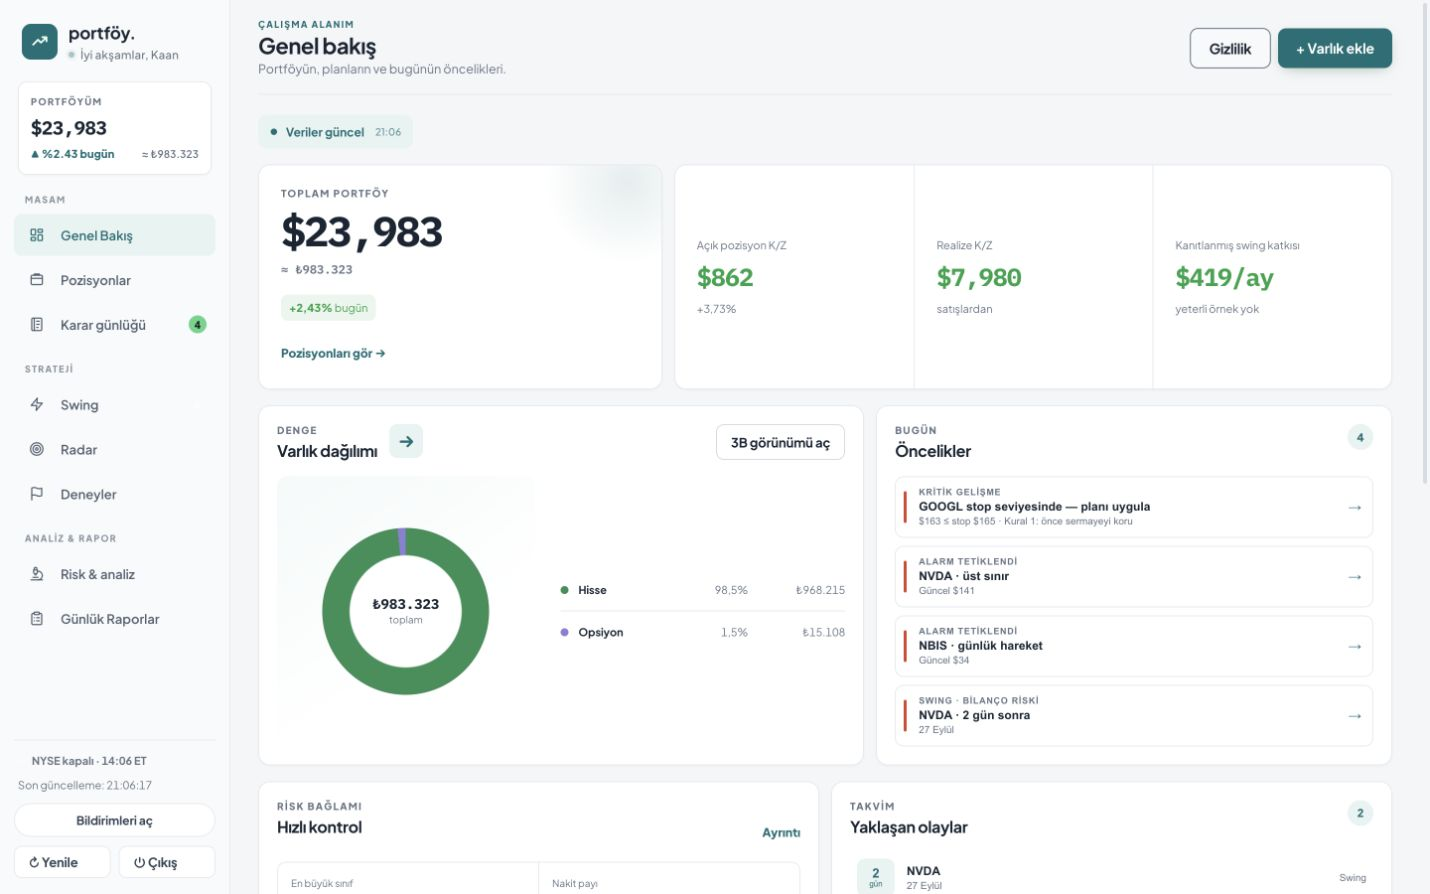
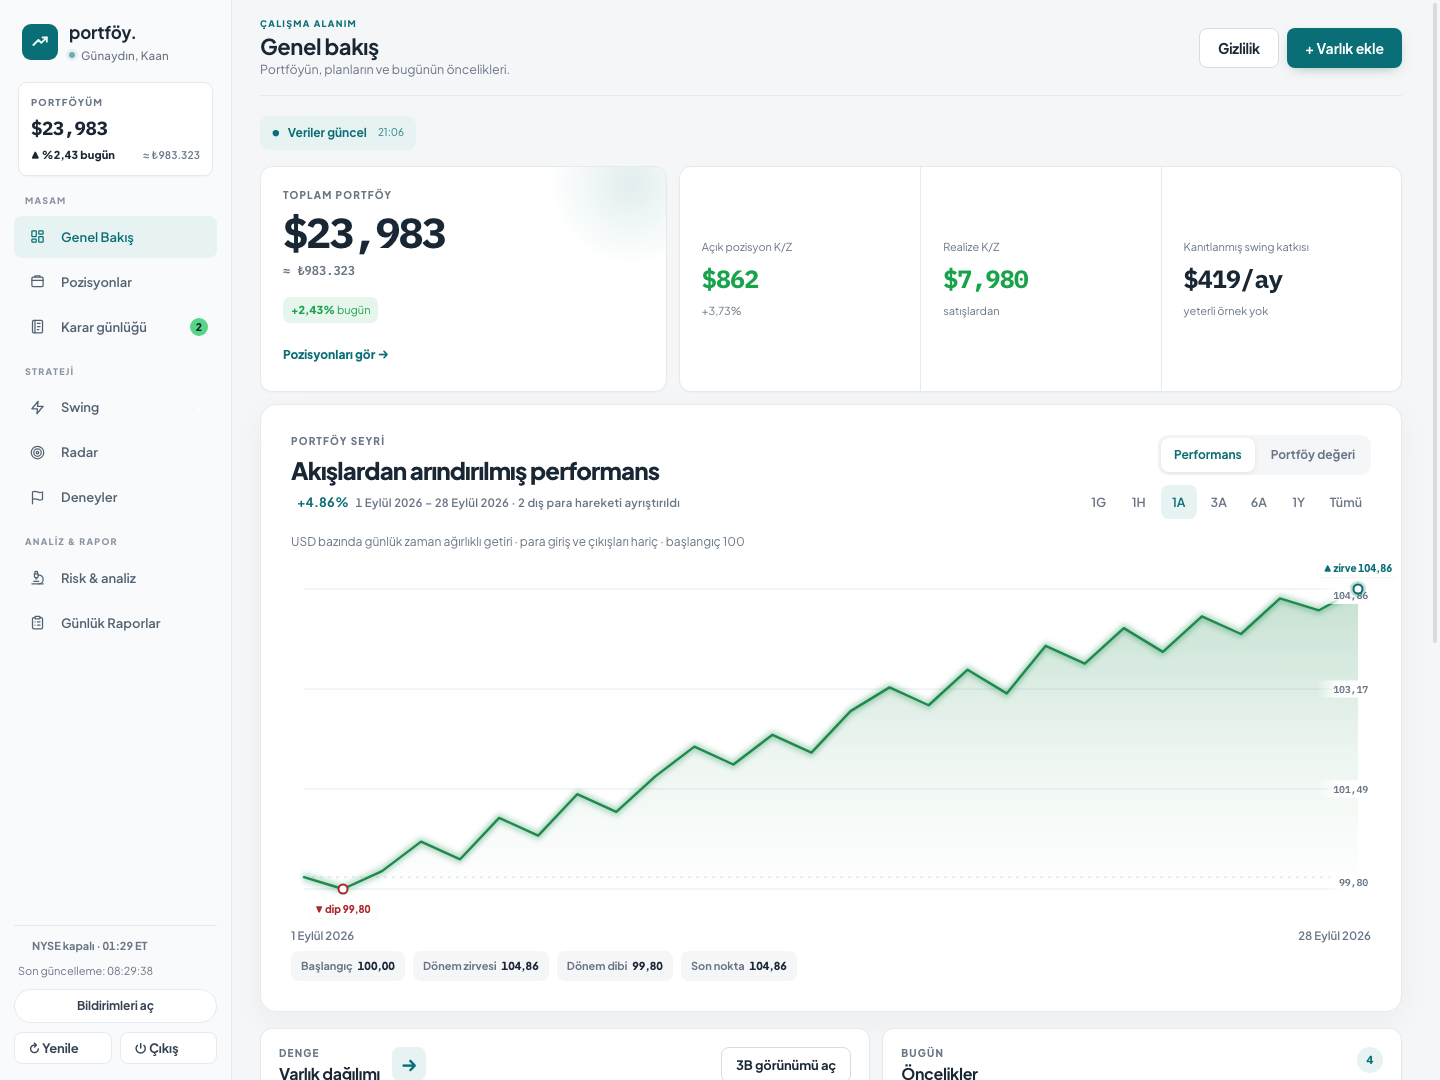
feat: show cash-flow-adjusted chart below portfolio total

diff --git a/public/js/01-cekirdek.js b/public/js/01-cekirdek.js
@@ -130,7 +130,8 @@ function bindAlloc() {
 }
 
 let STATE = null;
-let RANGE = "1d";
+let RANGE = "1m";
+let CHART_MODE = "performance";
 let ALLOC = { segs: [], total: 0, usdtry: 0, grandTotalTRY: 0 }; // varlık dağılımı (donut hover)
 
 /* ===== POZİSYON BOYUTLANDIRMA — tek formül, tek yer =============================
@@ -1257,31 +1258,61 @@ function iconizeHeaders(root) {
 
 function drawChart() {
   const box = $("#chartBox");
-  const { pts, intraday } = buildSeries();
+  box.classList.remove("is-empty");
+  const sub = $("#chartSub");
+  const context = $("#chartContext");
+  const insights = $("#chartInsights");
+  const isPerformance = CHART_MODE === "performance";
+  $("#chartTitle").textContent = isPerformance ? "Akışlardan arındırılmış performans" : "Portföy değeri";
+  const rangeKey = { "1d": "day", "1w": "week", "1m": "month", "3m": "quarter", "6m": "half", "1y": "year", all: "since" }[RANGE];
+  const period = isPerformance ? STATE.performance?.[rangeKey] : null;
+  if (isPerformance && (!period?.ok || period.verified === false || !Array.isArray(period.series) || period.series.length < 2)) {
+    const unresolved = period?.unexplainedCount || 0;
+    sub.textContent = "Doğrulanmış getiri bekleniyor";
+    context.textContent = unresolved
+      ? `${unresolved} günün nakit farkı açıklanmıyor. Bu aralıkta getiri çizgisi gösterilmiyor.`
+      : "Bu aralık için yeterli doğrulanmış değerleme yok. Daha kısa bir dönem seçebilirsin.";
+    context.classList.toggle("is-warning", !!unresolved);
+    insights.innerHTML = "";
+    box.classList.add("is-empty");
+    box.innerHTML = `<div class="chart-empty">${unresolved ? "Önce geçmiş nakit hareketlerini doğrula; bu dönem için güvenilir performans hesaplanamıyor." : "Bu dönemde çizilecek yeterli performans noktası henüz yok."}</div>`;
+    return;
+  }
+  const raw = isPerformance ? null : buildSeries();
+  const pts = isPerformance ? period.series.map((p, i) => ({
+    label: RANGE === "1d" ? (i === 0 ? "Açılış" : "Şimdi") : fmtDate(p.date),
+    total: p.index, pct: p.pct,
+  })) : raw.pts;
+  const intraday = isPerformance ? false : raw.intraday;
+  const fmtChart = (n) => isPerformance ? n.toLocaleString("tr-TR", { minimumFractionDigits: 2, maximumFractionDigits: 2 }) : fmtUSD0(n);
+  context.textContent = isPerformance
+    ? "USD bazında günlük zaman ağırlıklı getiri · para giriş ve çıkışları hariç · başlangıç 100"
+    : "Gerçek portföy bakiyesi · para giriş ve çıkışları çizgide görünür.";
+  context.classList.remove("is-warning");
 
   if (pts.length === 0) {
-    $("#chartSub").textContent = intraday ? "Gün içi veri birikiyor…" : "Henüz veri yok";
-    box.innerHTML = `<div class="chart-empty">${
-      intraday
-        ? "Bugünün seyri uygulama açık kaldıkça (her ~1 dk) dolar"
-        : "Bugün milat · Portföy değeri verileri bugünden itibaren birikmeye başlayacak."
-    }</div>`;
+    sub.textContent = intraday ? "Gün içi veri birikiyor…" : "Henüz veri yok";
+    insights.innerHTML = "";
+    box.classList.add("is-empty");
+    box.innerHTML = `<div class="chart-empty">${intraday ? "Bugünün seyri uygulama açık kaldıkça oluşur." : "Değerleme verileri biriktikçe grafik oluşacak."}</div>`;
     return;
   }
 
   const first = pts[0].total;
   const last = pts[pts.length - 1].total;
   const change = last - first;
-  const baseLabel = intraday ? "bugün açılışa göre net değer" : pts.length > 1 ? "dönem başına göre net değer" : "";
-  $("#chartSub").innerHTML =
-    `${fmtUSD(last)} <span class="chart-chg ${cls(change)}">${change >= 0 ? "▲" : "▼"} ${fmtUSD(Math.abs(change))}</span>` +
-    (baseLabel ? ` <span class="chart-base">· ${baseLabel} · para giriş/çıkışı dahil</span>` : "");
+  if (isPerformance) {
+    sub.innerHTML = `<span class="chart-chg ${cls(period.pct)}">${fmtPct(period.pct)}</span> <span class="chart-base">${fmtDate(period.start)} – ${fmtDate(period.end)} · ${period.flowCount} dış para hareketi ayrıştırıldı</span>`;
+  } else {
+    const baseLabel = intraday ? "bugün açılışa göre net değer" : pts.length > 1 ? "dönem başına göre net değer" : "";
+    sub.innerHTML = `${fmtUSD(last)} <span class="chart-chg ${cls(change)}">${change >= 0 ? "▲" : "▼"} ${fmtUSD(Math.abs(change))}</span>` +
+      (baseLabel ? ` <span class="chart-base">· ${baseLabel} · para giriş/çıkışı dahil</span>` : "");
+  }
 
   if (pts.length === 1) {
-    box.innerHTML = `<div class="chart-empty single">
-      <div class="single-val">${fmtUSD(last)}</div>
-      <div class="single-note">${pts[0].label} · ${intraday ? "Gün içi ilk nokta alındı, seyir dakikalar içinde şekillenecek." : "İlk kayıt alındı. Grafik birkaç günde şekillenecek."}</div>
-    </div>`;
+    insights.innerHTML = "";
+    box.classList.add("is-empty");
+    box.innerHTML = `<div class="chart-empty single"><div class="single-val">${fmtUSD(last)}</div><div class="single-note">${pts[0].label} · İlk kayıt alındı; grafik yeni noktalarla oluşacak.</div></div>`;
     return;
   }
 
@@ -1296,7 +1327,8 @@ function drawChart() {
   const up = change >= 0;
   const color = up ? "#1f8a4e" : "#d8442f";
   const lastX = px(pts.length - 1), lastY = py(last);
-  const lineD = smoothPath(pts.map((p, i) => [px(i), py(p.total)]));
+  const chartCoords = pts.map((p, i) => [px(i), py(p.total)]);
+  const lineD = isPerformance ? "M " + chartCoords.map(([x, y]) => `${x.toFixed(1)} ${y.toFixed(1)}`).join(" L ") : smoothPath(chartCoords);
   const areaD = `${lineD} L ${(W - pad.r).toFixed(1)} ${(H - pad.b).toFixed(1)} L ${pad.l.toFixed(1)} ${(H - pad.b).toFixed(1)} Z`;
 
   // Yatay referans ızgarası (4 seviye) + açılış/dönem başı kesikli çizgisi
@@ -1312,7 +1344,7 @@ function drawChart() {
   // Dönem zirvesi / dibi işaretçileri (detaylı görünüm)
   let hiI = 0, loI = 0;
   pts.forEach((p, i) => { if (p.total > pts[hiI].total) hiI = i; if (p.total < pts[loI].total) loI = i; });
-  const peak = (i, cls2) => `<div class="chart-peak ${cls2}" style="left:${((px(i) / W) * 100).toFixed(2)}%; top:${((py(pts[i].total) / H) * 100).toFixed(2)}%"><span>${cls2 === "hi" ? "▲ zirve" : "▼ dip"} ${fmtUSD0(pts[i].total)}</span></div>`;
+  const peak = (i, cls2) => `<div class="chart-peak ${cls2}" style="left:${((px(i) / W) * 100).toFixed(2)}%; top:${((py(pts[i].total) / H) * 100).toFixed(2)}%"><span>${cls2 === "hi" ? "▲ zirve" : "▼ dip"} ${fmtChart(pts[i].total)}</span></div>`;
   const peaks = (!intraday && pts.length >= 4 && hiI !== loI) ? peak(hiI, "hi") + peak(loI, "lo") : "";
 
   box.innerHTML = `
@@ -1333,7 +1365,7 @@ function drawChart() {
       <path d="${lineD}" fill="none" stroke="${color}" stroke-width="2.4" stroke-linejoin="round" stroke-linecap="round" vector-effect="non-scaling-stroke" filter="url(#cglow)"/>
     </svg>
     <div class="chart-ylabels">${
-      gridVals.map((v) => `<span style="top:${((py(v) / H) * 100).toFixed(1)}%">${fmtUSD0(v)}</span>`).join("")
+      gridVals.map((v) => `<span style="top:${((py(v) / H) * 100).toFixed(1)}%">${fmtChart(v)}</span>`).join("")
     }</div>
     ${peaks}
     <div class="chart-enddot" style="left:${((lastX / W) * 100).toFixed(2)}%; top:${((lastY / H) * 100).toFixed(2)}%; --c:${color}"></div>
@@ -1345,12 +1377,17 @@ function drawChart() {
         .map((l) => `<span>${l}</span>`).join("")
     }</div>`;
 
-  attachHover(box, pts, { px, py, W, H, first, color });
+  attachHover(box, pts, { px, py, W, H, first, color, isPerformance });
+  const hi = pts[hiI], lo = pts[loI];
+  insights.innerHTML = `<span>Başlangıç <b>${isPerformance ? "100,00" : fmtUSD0(first)}</b></span>
+    <span>Dönem zirvesi <b>${fmtChart(hi.total)}</b></span>
+    <span>Dönem dibi <b>${fmtChart(lo.total)}</b></span>
+    <span>Son nokta <b>${fmtChart(last)}</b></span>`;
   if (document.body.classList.contains("privacy")) applyMask(true);
 }
 
 // İmleçle gezinme: dikey çizgi + nokta + balon (değer ve başlangıca göre kazanç)
-function attachHover(box, pts, { px, py, W, H, first, color }) {
+function attachHover(box, pts, { px, py, W, H, first, color, isPerformance }) {
   const cursor = box.querySelector(".chart-cursor");
   const hot = box.querySelector(".chart-hot");
   const tip = box.querySelector(".chart-tip");
@@ -1377,8 +1414,8 @@ function attachHover(box, pts, { px, py, W, H, first, color }) {
     tip.style.top = `clamp(6px, ${yPct}%, 78%)`;
     tip.innerHTML = `
       <div class="tip-d">${p.label}</div>
-      <div class="tip-v">${fmtUSD(p.total)}</div>
-      <div class="tip-c ${cls(diff)}">Net değer ${diff >= 0 ? "▲" : "▼"} ${fmtUSD(Math.abs(diff))}</div>
+      <div class="tip-v">${isPerformance ? fmtPct(p.pct) : fmtUSD(p.total)}</div>
+      <div class="tip-c ${cls(diff)}">${isPerformance ? `Getiri endeksi ${p.total.toLocaleString("tr-TR", { minimumFractionDigits: 2, maximumFractionDigits: 2 })}` : `Net değer ${diff >= 0 ? "▲" : "▼"} ${fmtUSD(Math.abs(diff))}`}</div>
       ${p.totalTRY != null ? `<div class="tip-tl">≈ ${fmtTRY0(p.totalTRY)}</div>` : ""}`;
     if (document.body.classList.contains("privacy"))
       tip.querySelectorAll(".tip-v, .tip-c, .tip-tl").forEach((e) => { e.textContent = e.textContent.replace(/[0-9]/g, "•"); });
@@ -1389,6 +1426,18 @@ function attachHover(box, pts, { px, py, W, H, first, color }) {
   box.onpointerleave = () => show(false);
   box.ontouchmove = (e) => { if (e.touches[0]) move(e.touches[0].clientX); };
 }
+
+$("#chartModeTabs").addEventListener("click", (e) => {
+  const button = e.target.closest("[data-mode]");
+  if (!button) return;
+  CHART_MODE = button.dataset.mode;
+  document.querySelectorAll("#chartModeTabs [data-mode]").forEach((node) => {
+    const active = node === button;
+    node.classList.toggle("active", active);
+    node.setAttribute("aria-pressed", String(active));
+  });
+  if (STATE) drawChart();
+});
 
 $("#rangeTabs").addEventListener("click", (e) => {
   const b = e.target.closest(".rt");

diff --git a/public/index.html b/public/index.html
@@ -148,23 +148,32 @@
            Beğenilirse diğer görünümlere de aynı sınıf eklenir. -->
       <section class="view active" id="view-genel">
         <div id="deskOverview"></div>
-        <section class="panel chart-panel">
-          <div class="panel-head">
-            <div>
-              <h2><svg class="h2-ic" viewBox="0 0 24 24" fill="none" stroke-width="2" stroke-linecap="round" stroke-linejoin="round"><polyline points="22 7 13.5 15.5 8.5 10.5 2 17"/><polyline points="16 7 22 7 22 13"/></svg>Portföy Değeri <span class="tip" data-tip="İpucu: Günlük görünüm 15 dakikalık noktalarla çizilir; uzun aralıklar gün kapanışlarını gösterir. Tek günlük oynamaya değil eğimin yönüne bak — Kural 1: ana trend aşağı kırılırsa önce sermayeyi koru.">?</span></h2>
-              <span class="chart-sub" id="chartSub">—</span>
+        <section class="panel chart-panel" id="portfolioChartPanel">
+          <div class="panel-head chart-panel-head">
+            <div class="chart-heading">
+              <p class="desk-kicker">PORTFÖY SEYRİ</p>
+              <h2 id="chartTitle">Akışlardan arındırılmış performans</h2>
+              <span class="chart-sub" id="chartSub">Veri yükleniyor…</span>
             </div>
-            <div class="range-tabs" id="rangeTabs">
-              <button class="rt active" data-range="1d">Günlük</button>
-              <button class="rt" data-range="1w">Haftalık</button>
-              <button class="rt" data-range="1m">Aylık</button>
-              <button class="rt" data-range="3m">3 Aylık</button>
-              <button class="rt" data-range="6m">6 Aylık</button>
-              <button class="rt" data-range="1y">1 Yıllık</button>
-              <button class="rt" data-range="all">Tümü</button>
+            <div class="chart-controls">
+              <div class="chart-mode-tabs" id="chartModeTabs" role="group" aria-label="Grafik görünümü">
+                <button type="button" class="chart-mode active" data-mode="performance" aria-pressed="true">Performans</button>
+                <button type="button" class="chart-mode" data-mode="value" aria-pressed="false">Portföy değeri</button>
+              </div>
+              <div class="range-tabs" id="rangeTabs" role="group" aria-label="Grafik dönemi">
+                <button type="button" class="rt" data-range="1d">1G</button>
+                <button type="button" class="rt" data-range="1w">1H</button>
+                <button type="button" class="rt active" data-range="1m">1A</button>
+                <button type="button" class="rt" data-range="3m">3A</button>
+                <button type="button" class="rt" data-range="6m">6A</button>
+                <button type="button" class="rt" data-range="1y">1Y</button>
+                <button type="button" class="rt" data-range="all">Tümü</button>
+              </div>
             </div>
           </div>
+          <p class="chart-context" id="chartContext">Kayıtlı para giriş ve çıkışları getiriden ayrılır.</p>
           <div class="chart-box" id="chartBox"></div>
+          <div class="chart-insights" id="chartInsights" aria-live="polite"></div>
         </section>
 
         <details class="desk-details" id="deskLegacyDetails"><summary>Piyasa, risk ve muhasebe ayrıntıları <span>Göstergeler ve tüm uyarılar</span></summary>

diff --git a/public/css/overview.css b/public/css/overview.css
@@ -137,3 +137,42 @@
   .desk-empty-state .btn { width: 100%; margin: 0; }
 }
 @media (prefers-reduced-motion: reduce) { .desk-state-spinner { animation: none; } }
+
+/* Ana sayfa grafiği toplam değerin hemen ardından gelir; aynı yüzey mobilde de korunur. */
+.desk-chart-slot { grid-column: 1 / -1; min-width: 0; }
+.desk-chart-slot .chart-panel { margin: 0; padding: clamp(18px, 2.4vw, 30px); border: 1px solid var(--desk-line, #e6eaee); border-radius: 16px; background: var(--desk-surface, #fff); box-shadow: 0 10px 30px rgba(25,38,52,.045); }
+.chart-panel-head { gap: 20px; }
+.chart-heading { min-width: 0; }
+.chart-heading h2 { margin: 4px 0 0; font-size: clamp(18px, 2vw, 24px); letter-spacing: -.035em; }
+.chart-controls { display: grid; justify-items: end; gap: 10px; }
+.chart-mode-tabs { display: flex; gap: 3px; padding: 3px; border-radius: 10px; background: var(--desk-page, #f5f6f8); }
+.chart-mode { min-height: 34px; padding: 7px 13px; border: 0; border-radius: 8px; background: transparent; color: var(--desk-muted, #687585); font-family: inherit; font-size: 12px; line-height: 1.2; font-weight: 700; cursor: pointer; }
+.chart-mode.active { background: var(--desk-surface, #fff); color: var(--desk-accent, #096e75); box-shadow: 0 1px 4px rgba(25,38,52,.1); }
+.chart-mode:focus-visible, .range-tabs .rt:focus-visible { outline: 2px solid var(--desk-accent, #096e75); outline-offset: 2px; }
+.desk-chart-slot .range-tabs { background: transparent; border: 0; padding: 0; }
+.desk-chart-slot .rt { min-width: 36px; min-height: 34px; padding: 7px 9px; }
+.desk-chart-slot .rt.active { background: var(--desk-accent-soft, #e7f3f2); color: var(--desk-accent, #096e75); box-shadow: none; }
+.chart-context { margin: 14px 0 0; color: var(--desk-muted, #687585); font-size: 12px; line-height: 1.5; }
+.desk-chart-slot .chart-box { height: clamp(245px, 29vw, 360px); margin-top: 14px; }
+.desk-chart-slot .chart-box.is-empty { height: 170px; }
+.chart-insights { display: flex; flex-wrap: wrap; gap: 8px; margin-top: 26px; }
+.chart-insights:empty { display: none; }
+.chart-insights span { display: inline-flex; align-items: center; min-height: 30px; padding: 6px 10px; border-radius: 8px; color: var(--desk-muted, #687585); background: var(--desk-page, #f5f6f8); font-size: 11px; font-weight: 650; }
+.chart-insights span b { margin-left: 5px; color: var(--desk-text, #192634); font-variant-numeric: tabular-nums; }
+.chart-context.is-warning { color: #95630e; }
+@media (max-width: 767px) {
+  .desk-chart-slot { order: 2; }
+  .desk-priority-card { order: 3; }
+  .desk-metric-strip { order: 4; }
+  .desk-allocation-card { order: 5; }
+  .desk-context-grid { order: 6; }
+  .desk-chart-slot .chart-panel { padding: 17px 14px 18px; }
+  .chart-panel-head { display: grid; }
+  .chart-controls { justify-items: stretch; }
+  .chart-mode-tabs { width: max-content; max-width: 100%; }
+  .desk-chart-slot .range-tabs { flex-wrap: nowrap; overflow-x: auto; max-width: 100%; }
+  .desk-chart-slot .chart-box { height: 260px; }
+  .desk-chart-slot .chart-box.is-empty { height: 150px; }
+  .desk-chart-slot .chart-peak span { display: none; }
+  .chart-insights { margin-top: 24px; }
+}

diff --git a/performans.js b/performans.js
@@ -19,6 +19,7 @@ function pencere(noktalar, flows, ilk, fallback = false) {
   const secili = noktalar.slice(ilk.index);
   if (secili.length < 2) return null;
   let zincir = 1, akisToplam = 0, akisN = 0;
+  const series = [{ date: secili[0].date, index: 100, pct: 0 }];
   for (let i = 1; i < secili.length; i++) {
     const onceki = secili[i - 1], simdi = secili[i];
     let akis = 0;
@@ -36,13 +37,14 @@ function pencere(noktalar, flows, ilk, fallback = false) {
     if (!Number.isFinite(oran) || oran < 0) return { ok: false, reason: "deger" };
     zincir *= oran;
     akisToplam += akis;
+    series.push({ date: simdi.date, index: zincir * 100, pct: (zincir - 1) * 100 });
   }
   const bas = secili[0], son = secili[secili.length - 1];
   return {
     ok: true, pct: (zincir - 1) * 100,
     gainUSD: son.usd - bas.usd - akisToplam,
     start: bas.date, end: son.date, flowCount: akisN,
-    approximate: true,
+    approximate: true, series,
   };
 }
 
@@ -64,6 +66,10 @@ export function performansHesapla({ snapshots = [], flows = [], current, dayOpen
   const cutoff = (days) => new Date(Date.parse(`${tarih}T00:00:00Z`) - days * 86400000).toISOString().slice(0, 10);
   const once = (date) => { const index = noktalar.findLastIndex((s) => s.date <= date); return index >= 0 ? { index } : null; };
   const ilk = (date) => { const index = noktalar.findIndex((s) => s.date >= date); return index >= 0 && index < noktalar.length - 1 ? { index } : null; };
+  const sonGunlerden = (days) => {
+    const tarihSiniri = cutoff(days);
+    return baslangic && tarihSiniri < baslangic ? null : pencere(noktalar, flows, once(tarihSiniri));
+  };
   const ytd = `${tarih.slice(0, 4)}-01-01`;
   let day = pencere(noktalar, flows, sonGun);
   if (!day && Number(dayOpen?.total) > 0) {
@@ -72,8 +78,11 @@ export function performansHesapla({ snapshots = [], flows = [], current, dayOpen
   }
   return {
     currency: "USD", method: "daily_twr",
-    day, week: pencere(noktalar, flows, once(cutoff(7))),
-    month: pencere(noktalar, flows, once(cutoff(30))),
+    day, week: sonGunlerden(7),
+    month: sonGunlerden(30),
+    quarter: sonGunlerden(90),
+    half: sonGunlerden(180),
+    year: sonGunlerden(365),
     // Ölçüm tabanından önceki geriye doldurulmuş yıl kaydını
     // "yıl başı getirisi" diye sunma.
     ytd: baslangic && baslangic > ytd ? null : pencere(noktalar, flows, ilk(ytd)),
@@ -86,7 +95,7 @@ export function performansDogrula(performance, auditDays = []) {
   if (!performance) return null;
   const issues = auditDays.filter((g) => g.ariza === "deger-acigi");
   const out = { ...performance };
-  for (const key of ["day", "week", "month", "ytd", "since"]) {
+  for (const key of ["day", "week", "month", "quarter", "half", "year", "ytd", "since"]) {
     const p = performance[key];
     if (!p?.ok) continue;
     const unmatched = issues.filter((g) => g.d > p.start && g.d <= p.end);

diff --git a/public/js/10-overview.js b/public/js/10-overview.js
@@ -174,6 +174,8 @@
 
     // WebGL renderer bu düğüme bağlıdır. 60 sn'lik portföy yenilemelerinde aynı
     // dağılım yüzeyini korumak context/texture churn'ünü engeller.
+    const existingChartPanel = document.getElementById("portfolioChartPanel");
+    existingChartPanel?.remove();
     const existingAllocationMount = document.getElementById("deskAllocationVisual");
     const existingThreeToggle = existingAllocationMount
       ?.closest(".desk-allocation-card")
@@ -193,6 +195,7 @@
           <article><small>Realize K/Z</small><b class="desk-sensitive ${tone(metrics.realizedUSD)}">${moneyUSD(metrics.realizedUSD)}</b><span>satışlardan</span></article>
           <article><small>Kanıtlanmış swing katkısı</small><b class="desk-sensitive ${tone(proven?.perMonth)}">${proven?.perMonth != null ? `${moneyUSD(proven.perMonth)}/ay` : "Ölçülmüyor"}</b><span>${swing?._valid === false ? "veri alınamadı" : proven?.verdict === "yetersiz" || !proven ? "yeterli örnek yok" : proven.verdict === "gurultu" ? "gürültüden ayrışmıyor" : "ölçülen katkı"}</span></article>
         </div>
+        <div class="desk-chart-slot" id="deskChartSlot"></div>
       </section>
 
       <section class="desk-overview-grid">
@@ -222,6 +225,7 @@
         </article>
       </section>`;
 
+    if (existingChartPanel) document.getElementById("deskChartSlot")?.append(existingChartPanel);
     const replacementMount = document.getElementById("deskAllocationVisual");
     if (existingAllocationMount && replacementMount && existingAllocationMount !== replacementMount) {
       const oldFallback = existingAllocationMount.querySelector(".desk-allocation-fallback");

diff --git a/public/js/09-boot-notlar-ai.js b/public/js/09-boot-notlar-ai.js
@@ -551,7 +551,7 @@ const PM_SEL = [
   ".mover-card .mv-pct",
   ".cash-item .v", ".cash-item .sub",
   "#flowsSub", "#tradesSub", "#r26Sub", "#alertsSub",
-  "#chartSub", ".chart-ylabels span",
+  "#chartSub", ".chart-ylabels span", ".chart-peak span", "#chartInsights b",
   "#tables tbody td:not(.l):not(.spark-col)", "#tables tfoot td:not(.l)",
   "#allTrades tbody td:not(.l)", "#allTrades tfoot td:not(.l)",
   "#realized2026 tbody td:not(.l)", "#realized2026 .r26-stat > b",

diff --git a/README.md b/README.md
@@ -11,20 +11,22 @@ Vanilla JavaScript SPA · Three.js · Express · PostgreSQL · Claude API · MCP
 ![MCP](https://img.shields.io/badge/MCP-server-6C47FF)
 ![License](https://img.shields.io/badge/license-MIT-green)
 
-![Portfolio Tracker desktop overview with allocation, priorities and portfolio summary](docs/screenshots/overview.png)
+![Portfolio Tracker desktop overview with portfolio total and cash-flow-adjusted performance chart](docs/screenshots/overview.png)
 
 <details>
   <summary>Mobile overview</summary>
-  <img src="docs/screenshots/overview-mobile.png" alt="Mobile overview with portfolio summary, today's priorities and bottom navigation" width="390">
+  <img src="docs/screenshots/overview-mobile.png" alt="Mobile overview with portfolio total, performance chart and bottom navigation" width="390">
 </details>
 
-*Screenshots use the local mock server and sample data.*
+*Screenshots show illustrative sample data from a local preview.*
 
 > **Why it exists** — I wanted one place that enforces my own trading discipline instead of just charting prices: *Rule #1: don't lose money.* Positions without a stop plan get flagged, new entries are blocked when the market regime is off, profits trigger "pull your initial capital, let the profit ride for free" suggestions. The app is my daily driver; the UI is Turkish because it was built for me first.
 
 ---
 
 ## Features
+
+- **Portfolio-first overview** puts the detailed performance chart directly below the total, with mobile-friendly period controls and a separate actual-value view. Registered deposits and withdrawals are excluded from the return chart; unverified periods are clearly marked.
 
 **Portfolio core**
 - Live portfolio (US stocks, funds, gold, options) with day/week/month/YTD returns, allocation donut with an optional 3D desktop view, benchmark compare and a privacy mode that masks every number
